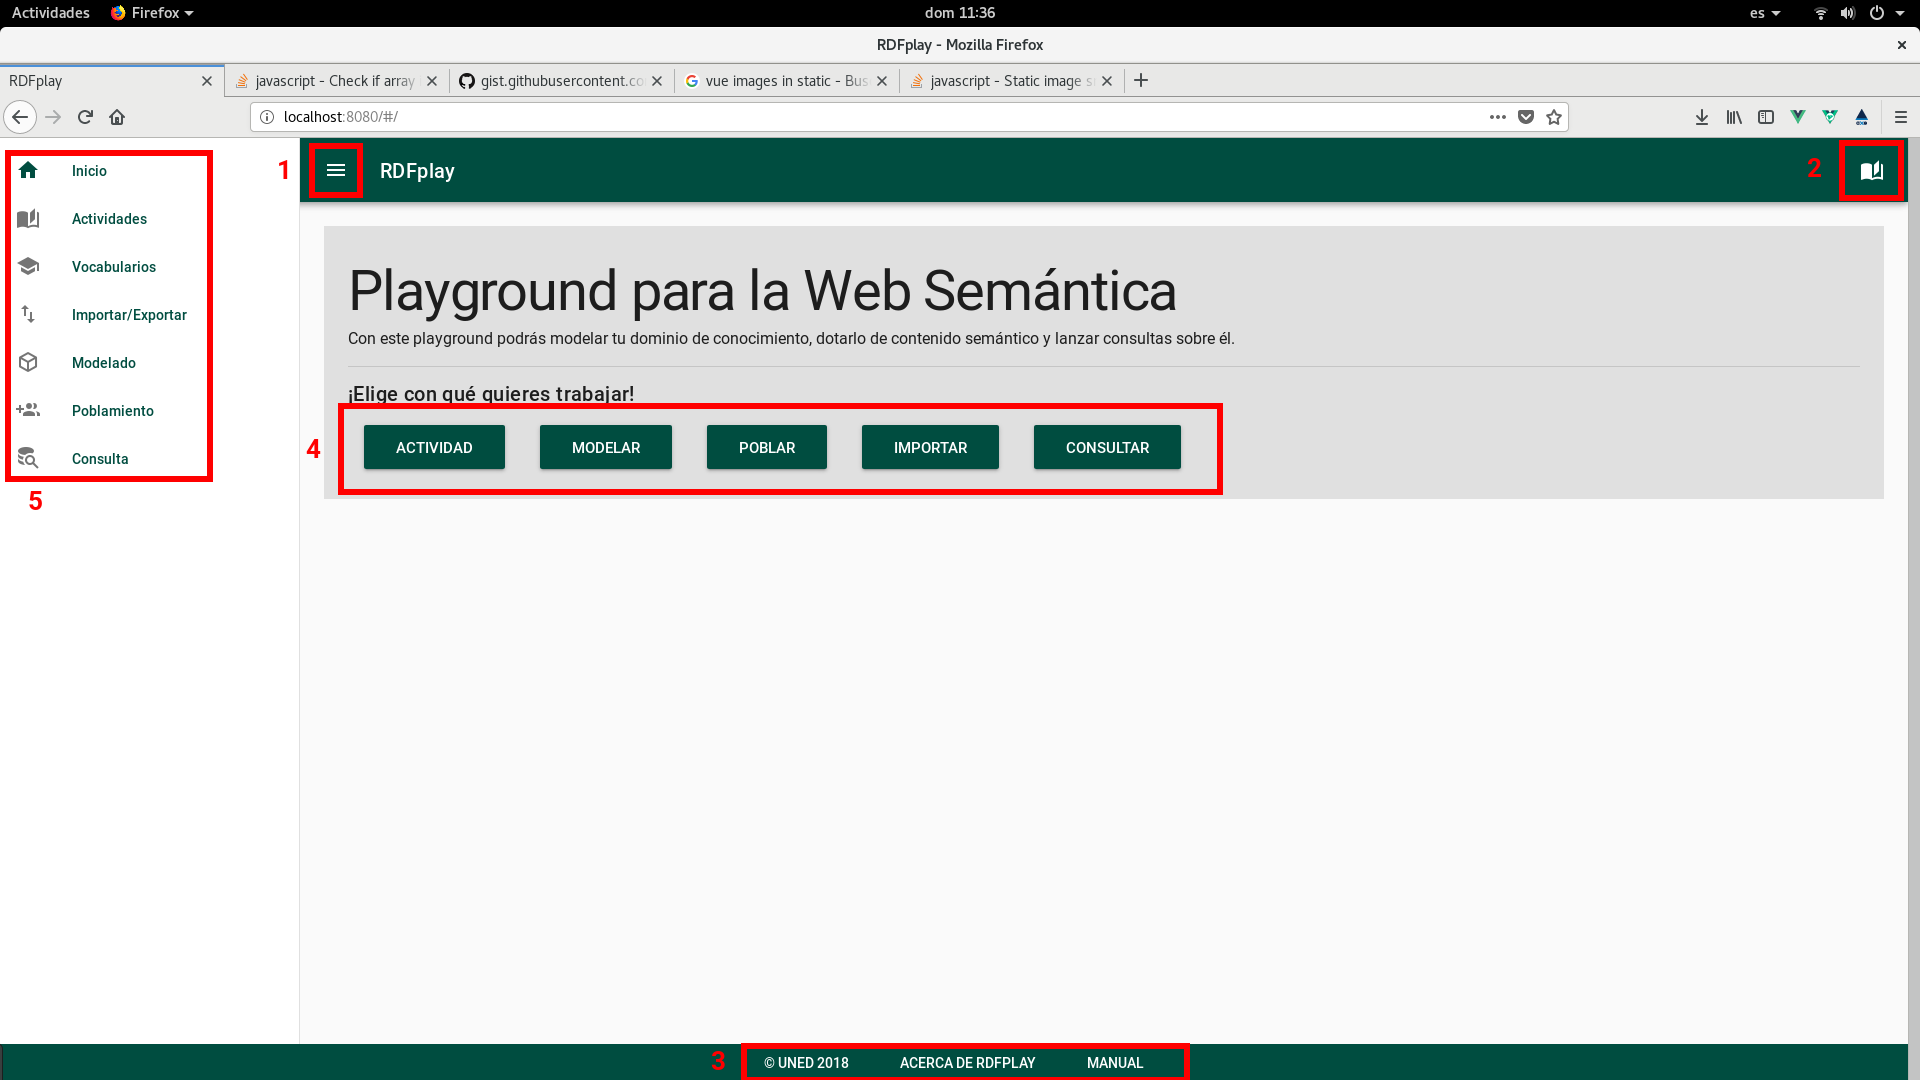
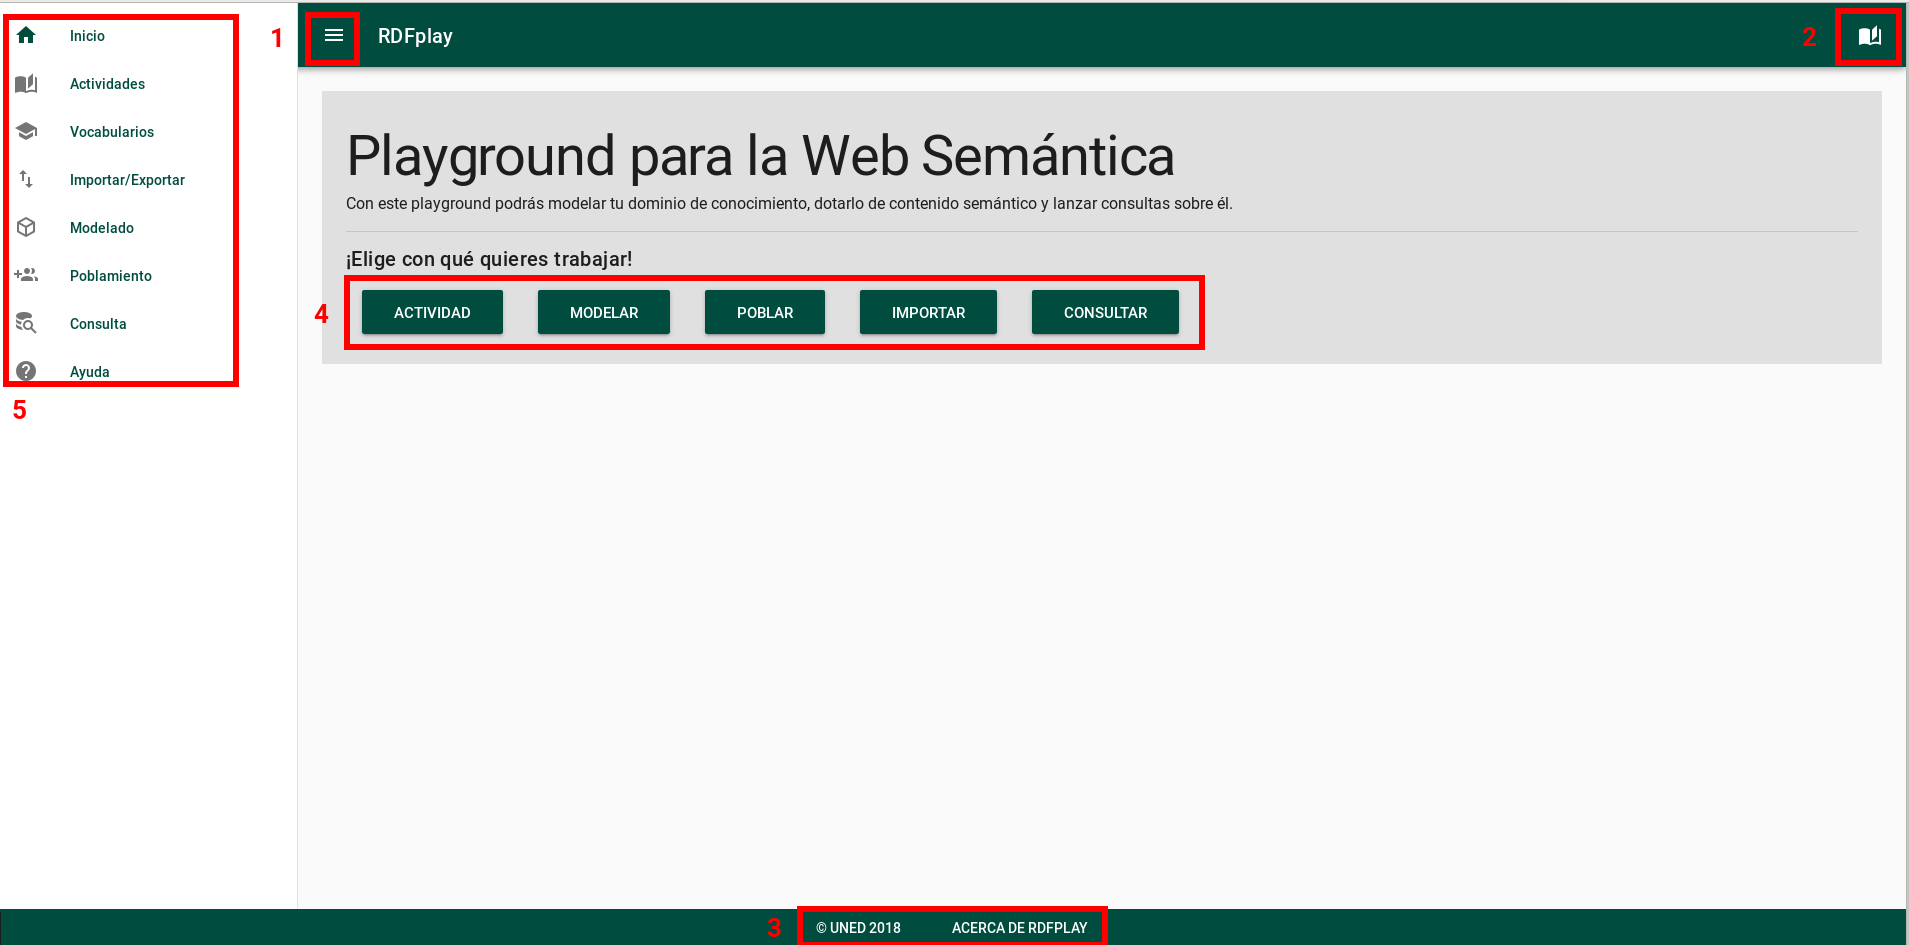
Corregido defecto de visualización

Changed region(s): [[0.0, 0.0, 1.0, 1.0]]

diff --git a/src/components/UserGuide.vue b/src/components/UserGuide.vue
@@ -13,13 +13,13 @@
             <h2>Punto de entrada a la aplicación</h2>
             <p> La interfaz principal se divide en cinco bloques, como se puede comprobar en la imagen:</p>
             <p>
-              <img height="75%" width="75%" src="/static/home.png"/>
+              <img height="75%" width="75%" src="/static/home.png" alt="Captura de la interfaz principal de la aplicación."/>
             </p>
             <p>
             <ol>
               <li>Muestra u oculta el menú lateral.</li>
               <li>Muestra la actividad cargada.</li>
-              <li>Se ofrecen enlaces a la página principal de la UNED, autoría de la aplicación y este manual.</li>
+              <li>Se ofrecen enlaces a la página principal de la UNED e información sobre la autoría de la aplicación.</li>
               <li>Atajos a las funcionalidades principales de la aplicación.</li>
               <li>Menú con todas las funcionalidades de la aplicación.</li>
             </ol>
@@ -82,6 +82,8 @@
             <p>La interfaz de consulta permite lanzar consultas SPARQL al grafo local o a uno remoto. Por defecto, la aplicación está configurada para consultar el grafo local; este comportamiento puede cambiarse activando el interruptor de "Usar Endpoint SPARQL remoto" e introduciendo la URL del Endpoint en el campo de texto que aparecerá para tal efecto.</p>
             <p>Las consultas pueden introducirse en el campo de texto previsto para ello o a través de archivo pinchando en el botón "Desde archivo" o URL introduciendo la misma en el campo de texto habilitado para ello y pinchando en el icono con forma de lupa.</p>
             <p>Una vez introducida la consulta deseada, es necesario pinchar en el botón "Lanzar Consulta" para que esta se ejecute sobre el grafo; los resultados aparecerán en una tabla paginada en el área derecha de la interfaz.</p>
+            <h2>Ayuda</h2>
+            <p>Esta ayuda.</p>
                  </v-card-text>
         </v-card>
       </v-flex>

diff --git a/src/App.vue b/src/App.vue
@@ -71,14 +71,6 @@
           >
            Acerca de {{title}}
           </v-btn>
-          <v-btn
-            color="white"
-            flat
-            round
-            to="/user-guide"
-          >
-            Ayuda
-          </v-btn>
         </v-flex>
       </v-layout>
     </v-footer>
@@ -145,6 +137,11 @@
           icon: 'mdi-database-search',
           title: 'Consulta',
           link: '/sparql'
+        },
+        {
+          icon: 'mdi-help-circle',
+          title: 'Ayuda',
+          link: '/user-guide'
         }],
         title: 'RDFplay'
       }
